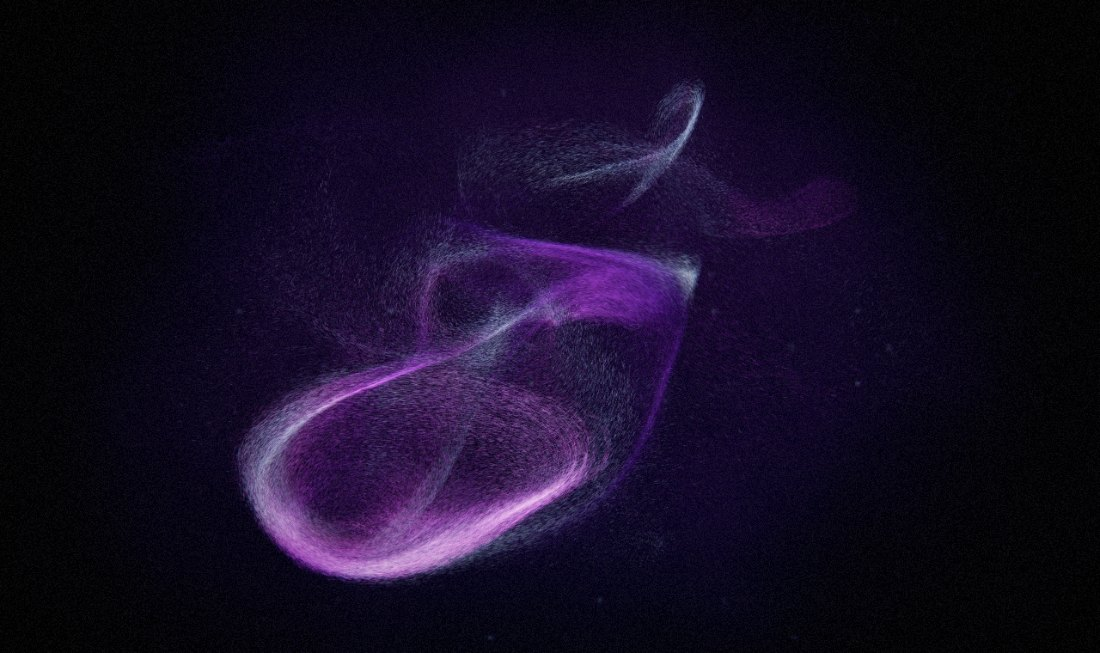
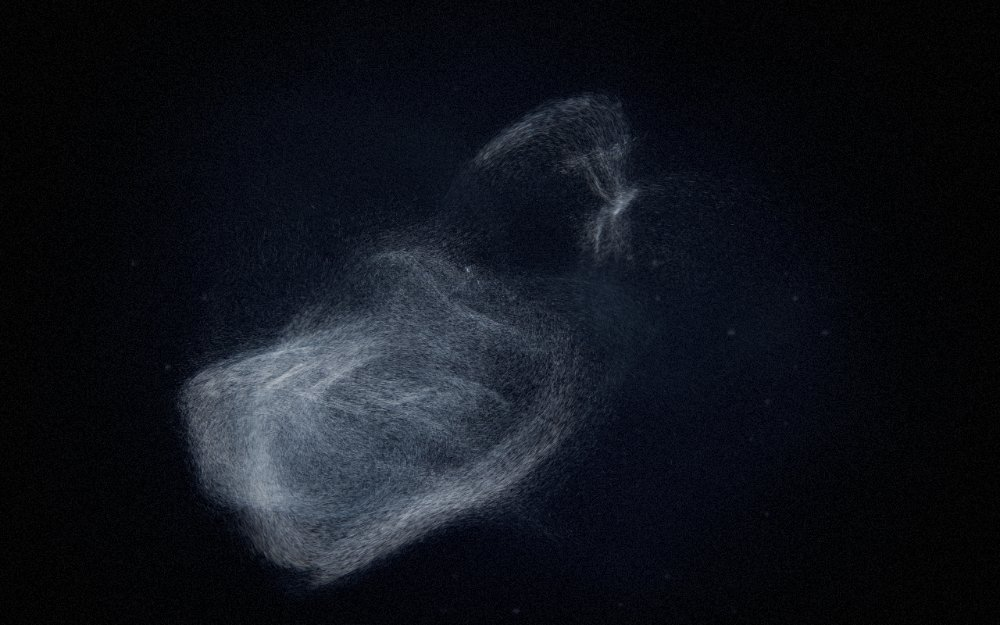
Refresh stills from a verified build
These are the first captures of the band/voice/articulation work that are
genuinely of that code. Every previous capture was a cached shader from
before it landed, which is how a black screen shipped.

Changed region(s): [[0.155, 0.0608, 0.775, 0.9424], [0.589, 0.8208, 0.62, 0.8512], [0.279, 0.3344, 0.31, 0.3648]]

diff --git a/README.md b/README.md
@@ -11,13 +11,13 @@ The flagship track is Patrick Watson's *Je te laisserai des mots*, but it reads 
 
 ![the same track sixteen seconds later, in the near-silent bar](docs/lull.jpg)
 
-The same track fifteen seconds apart: a full passage, then the near-silent bar at 1:06. Nothing is scripted - the field thins, dims and slows because the music did.
+The same track: a full passage, then the near-silent bar around 1:00. Nothing is scripted - the field thins, dims and slows because the music did.
 
 ![the solo piano opening](docs/piano.jpg)
 
 ![a sung phrase](docs/voice.jpg)
 
-And the solo piano opening against a sung phrase. The piano reads struck and warm; the voice, isolated by its centre placement rather than its pitch, arrives as a separate coherent form.
+And the solo piano opening against a sung phrase. The piano reads struck; the voice, isolated by its centre placement rather than its pitch, arrives as a separate coherent form. The two frames differ in palette because the palette travels - mode chooses the half, a slow swing carries it across the banks.
 
 ## Run it
 
